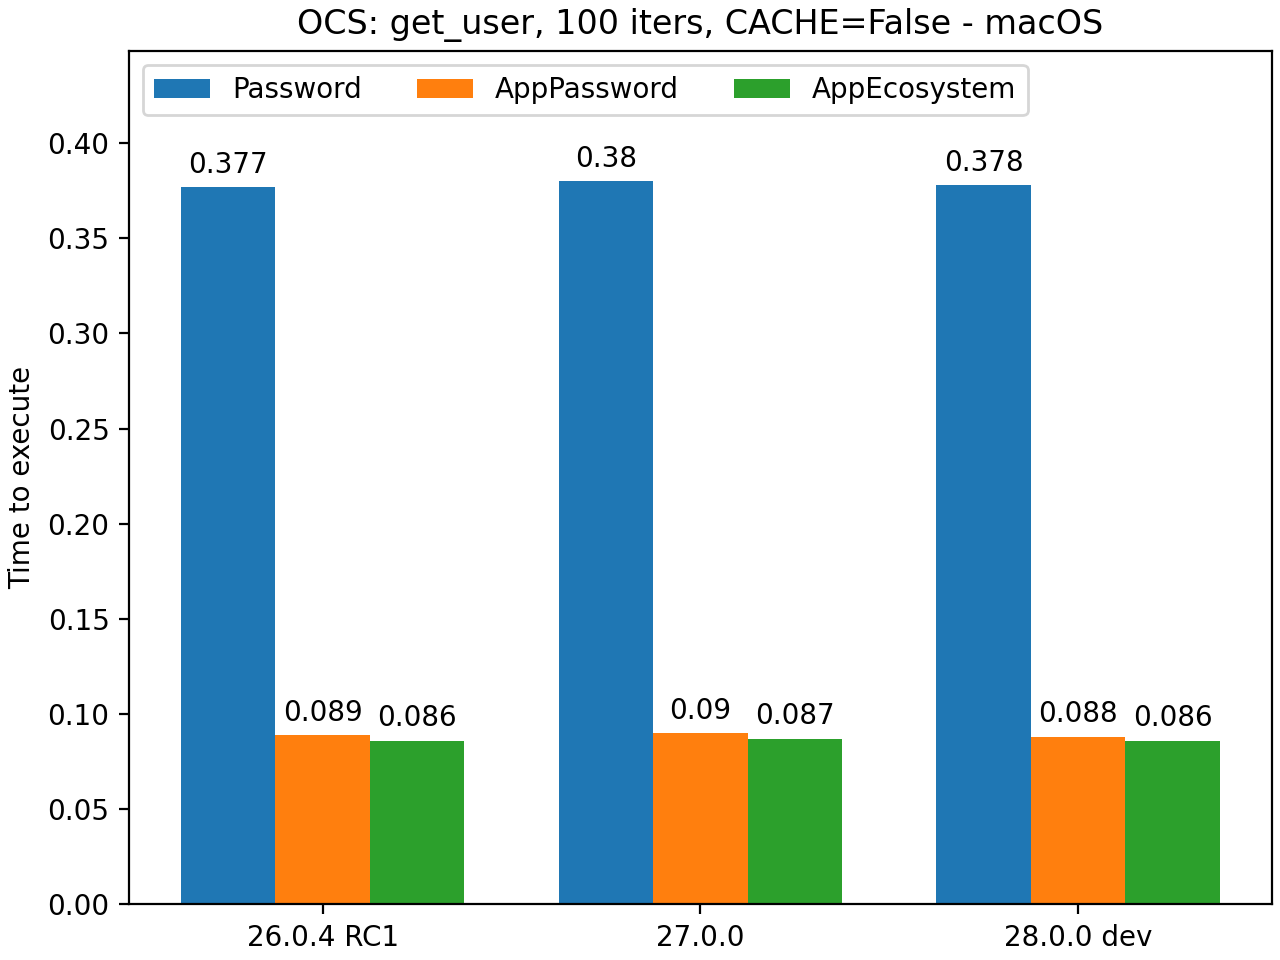
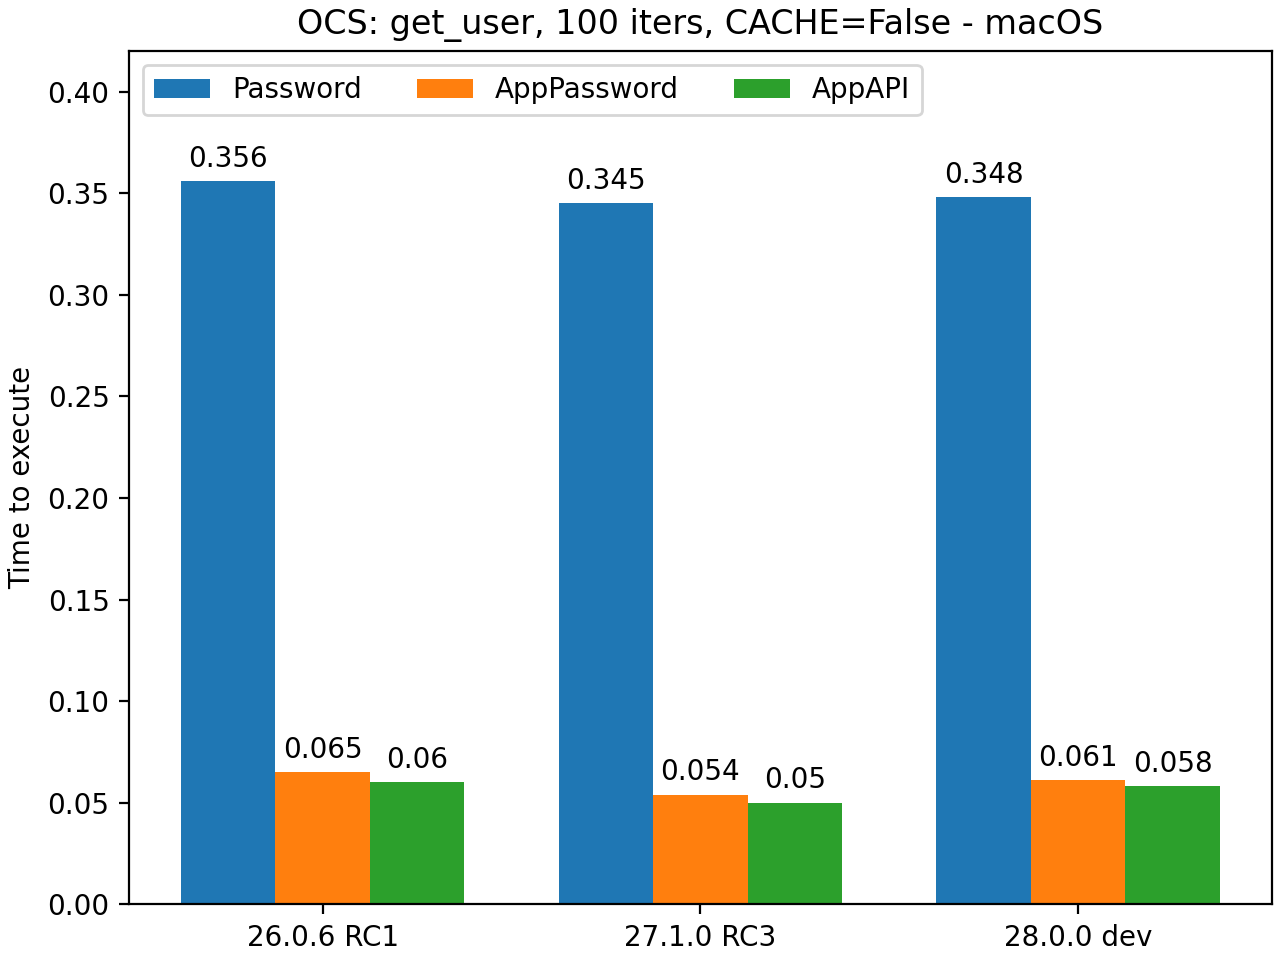
Finished transaction to `app_api` (#118)

diff --git a/tests/_app_security_checks.py b/tests/_app_security_checks.py
@@ -5,8 +5,9 @@ from sys import argv
 import requests
 
 
-def sign_request(req_headers: dict, user: str = ""):
-    req_headers["AUTHORIZATION-APP-API"] = b64encode(f"{user}:{environ['APP_SECRET']}".encode("UTF=8"))
+def sign_request(req_headers: dict, secret=None, user: str = ""):
+    app_secret = secret if secret is not None else environ["APP_SECRET"]
+    req_headers["AUTHORIZATION-APP-API"] = b64encode(f"{user}:{app_secret}".encode("UTF=8"))
 
 
 # params: app base url
@@ -17,7 +18,7 @@ if __name__ == "__main__":
     assert result.status_code == 401  # Missing headers
     headers.update(
         {
-            "AE-VERSION": environ.get("AE_VERSION", "1.0.0"),
+            "AA-VERSION": environ.get("AA_VERSION", "1.0.0"),
             "EX-APP-ID": environ.get("APP_ID", "nc_py_api"),
             "EX-APP-VERSION": environ.get("APP_VERSION", "1.0.0"),
         }
@@ -25,33 +26,33 @@ if __name__ == "__main__":
     sign_request(headers)
     result = requests.put(request_url, headers=headers)
     assert result.status_code == 200
-    # # Invalid AA-SIGNATURE
-    # request_url = argv[1] + "/sec_check?value=0"
-    # result = requests.put(request_url, headers=headers)
-    # assert result.status_code == 401
-    # sign_request(headers)
-    # result = requests.put(request_url, headers=headers)
-    # assert result.status_code == 200
-    # # Invalid EX-APP-ID
-    # old_app_name = headers["EX-APP-ID"]
-    # headers["EX-APP-ID"] = "unknown_app"
-    # sign_request(headers)
-    # result = requests.put(request_url, headers=headers)
-    # assert result.status_code == 401
-    # headers["EX-APP-ID"] = old_app_name
-    # sign_request(headers)
-    # result = requests.put(request_url, headers=headers)
-    # assert result.status_code == 200
-    # # Invalid EX-APP-VERSION
-    # sign_request(headers)
-    # result = requests.put(request_url, headers=headers)
-    # assert result.status_code == 200
-    # old_version = headers["EX-APP-VERSION"]
-    # headers["EX-APP-VERSION"] = "999.0.0"
-    # sign_request(headers)
-    # result = requests.put(request_url, headers=headers)
-    # assert result.status_code == 401
-    # headers["EX-APP-VERSION"] = old_version
-    # sign_request(headers)
-    # result = requests.put(request_url, headers=headers)
-    # assert result.status_code == 200
+    # Invalid AA-SIGNATURE
+    sign_request(headers, secret="xxx")
+    result = requests.put(request_url, headers=headers)
+    assert result.status_code == 401
+    sign_request(headers)
+    result = requests.put(request_url, headers=headers)
+    assert result.status_code == 200
+    # Invalid EX-APP-ID
+    old_app_name = headers["EX-APP-ID"]
+    headers["EX-APP-ID"] = "unknown_app"
+    sign_request(headers)
+    result = requests.put(request_url, headers=headers)
+    assert result.status_code == 401
+    headers["EX-APP-ID"] = old_app_name
+    sign_request(headers)
+    result = requests.put(request_url, headers=headers)
+    assert result.status_code == 200
+    # Invalid EX-APP-VERSION
+    sign_request(headers)
+    result = requests.put(request_url, headers=headers)
+    assert result.status_code == 200
+    old_version = headers["EX-APP-VERSION"]
+    headers["EX-APP-VERSION"] = "999.0.0"
+    sign_request(headers)
+    result = requests.put(request_url, headers=headers)
+    assert result.status_code == 401
+    headers["EX-APP-VERSION"] = old_version
+    sign_request(headers)
+    result = requests.put(request_url, headers=headers)
+    assert result.status_code == 200

diff --git a/benchmarks/aa_overhead_dav_download_stream.py b/benchmarks/aa_overhead_dav_download_stream.py
@@ -5,23 +5,25 @@ from time import perf_counter
 from typing import Any, Union
 
 import matplotlib.pyplot as plt
-from ae_overhead_common import measure_overhead, os_id
+from aa_overhead_common import measure_overhead, os_id
 
 from nc_py_api import Nextcloud, NextcloudApp
 
 ITERS = 10
-CACHE_SESS = True
+CACHE_SESS = False
 
 
-def measure_upload_100mb(nc_obj: Union[Nextcloud, NextcloudApp]) -> [Any, float]:
+def measure_download_100mb(nc_obj: Union[Nextcloud, NextcloudApp]) -> [Any, float]:
     __result = None
     medium_file_name = "100Mb.bin"
     medium_file = BytesIO()
     medium_file.write(randbytes(100 * 1024 * 1024))
+    medium_file.seek(0)
+    nc_obj.files.upload_stream(medium_file_name, medium_file)
     start_time = perf_counter()
     for _ in range(ITERS):
         medium_file.seek(0)
-        nc_obj.files.upload_stream(medium_file_name, medium_file)
+        nc_obj.files.download2stream(medium_file_name, medium_file)
         nc_obj._session.init_adapter(restart=not CACHE_SESS)  # noqa
     end_time = perf_counter()
     nc_obj.files.delete(medium_file_name, not_fail=True)
@@ -29,6 +31,6 @@ def measure_upload_100mb(nc_obj: Union[Nextcloud, NextcloudApp]) -> [Any, float]
 
 
 if __name__ == "__main__":
-    title = f"upload stream 100mb, {ITERS} iters, CACHE={CACHE_SESS} - {os_id()}"
-    measure_overhead(measure_upload_100mb, title)
-    plt.savefig(f"results/dav_upload_stream_100mb__cache{int(CACHE_SESS)}_iters{ITERS}__{getuser()}.png", dpi=200)
+    title = f"download stream 100mb, {ITERS} iters, CACHE={CACHE_SESS} - {os_id()}"
+    measure_overhead(measure_download_100mb, title)
+    plt.savefig(f"results/dav_download_stream_100mb__cache{int(CACHE_SESS)}_iters{ITERS}__{getuser()}.png", dpi=200)

diff --git a/benchmarks/aa_overhead_dav_upload_stream.py b/benchmarks/aa_overhead_dav_upload_stream.py
@@ -5,25 +5,23 @@ from time import perf_counter
 from typing import Any, Union
 
 import matplotlib.pyplot as plt
-from ae_overhead_common import measure_overhead, os_id
+from aa_overhead_common import measure_overhead, os_id
 
 from nc_py_api import Nextcloud, NextcloudApp
 
 ITERS = 10
-CACHE_SESS = True
+CACHE_SESS = False
 
 
-def measure_download_100mb(nc_obj: Union[Nextcloud, NextcloudApp]) -> [Any, float]:
+def measure_upload_100mb(nc_obj: Union[Nextcloud, NextcloudApp]) -> [Any, float]:
     __result = None
     medium_file_name = "100Mb.bin"
     medium_file = BytesIO()
     medium_file.write(randbytes(100 * 1024 * 1024))
-    medium_file.seek(0)
-    nc_obj.files.upload_stream(medium_file_name, medium_file)
     start_time = perf_counter()
     for _ in range(ITERS):
         medium_file.seek(0)
-        nc_obj.files.download2stream(medium_file_name, medium_file)
+        nc_obj.files.upload_stream(medium_file_name, medium_file)
         nc_obj._session.init_adapter(restart=not CACHE_SESS)  # noqa
     end_time = perf_counter()
     nc_obj.files.delete(medium_file_name, not_fail=True)
@@ -31,6 +29,6 @@ def measure_download_100mb(nc_obj: Union[Nextcloud, NextcloudApp]) -> [Any, floa
 
 
 if __name__ == "__main__":
-    title = f"download stream 100mb, {ITERS} iters, CACHE={CACHE_SESS} - {os_id()}"
-    measure_overhead(measure_download_100mb, title)
-    plt.savefig(f"results/dav_download_stream_100mb__cache{int(CACHE_SESS)}_iters{ITERS}__{getuser()}.png", dpi=200)
+    title = f"upload stream 100mb, {ITERS} iters, CACHE={CACHE_SESS} - {os_id()}"
+    measure_overhead(measure_upload_100mb, title)
+    plt.savefig(f"results/dav_upload_stream_100mb__cache{int(CACHE_SESS)}_iters{ITERS}__{getuser()}.png", dpi=200)

diff --git a/benchmarks/aa_overhead_dav_upload.py b/benchmarks/aa_overhead_dav_upload.py
@@ -4,22 +4,21 @@ from time import perf_counter
 from typing import Any, Union
 
 import matplotlib.pyplot as plt
-from ae_overhead_common import measure_overhead, os_id
+from aa_overhead_common import measure_overhead, os_id
 
 from nc_py_api import Nextcloud, NextcloudApp
 
 ITERS = 30
-CACHE_SESS = True
+CACHE_SESS = False
 
 
-def measure_download_1mb(nc_obj: Union[Nextcloud, NextcloudApp]) -> [Any, float]:
+def measure_upload_1mb(nc_obj: Union[Nextcloud, NextcloudApp]) -> [Any, float]:
     __result = None
     small_file_name = "1Mb.bin"
     small_file = randbytes(1024 * 1024)
-    nc_obj.files.upload(small_file_name, small_file)
     start_time = perf_counter()
     for _ in range(ITERS):
-        nc_obj.files.download(small_file_name)
+        nc_obj.files.upload(small_file_name, small_file)
         nc_obj._session.init_adapter(restart=not CACHE_SESS)  # noqa
     end_time = perf_counter()
     nc_obj.files.delete(small_file_name, not_fail=True)
@@ -27,6 +26,6 @@ def measure_download_1mb(nc_obj: Union[Nextcloud, NextcloudApp]) -> [Any, float]
 
 
 if __name__ == "__main__":
-    title = f"download 1mb, {ITERS} iters, CACHE={CACHE_SESS} - {os_id()}"
-    measure_overhead(measure_download_1mb, title)
-    plt.savefig(f"results/dav_download_1mb__cache{int(CACHE_SESS)}_iters{ITERS}__{getuser()}.png", dpi=200)
+    title = f"upload 1mb, {ITERS} iters, CACHE={CACHE_SESS} - {os_id()}"
+    measure_overhead(measure_upload_1mb, title)
+    plt.savefig(f"results/dav_upload_1mb__cache{int(CACHE_SESS)}_iters{ITERS}__{getuser()}.png", dpi=200)

diff --git a/benchmarks/aa_overhead_dav_download.py b/benchmarks/aa_overhead_dav_download.py
@@ -4,21 +4,22 @@ from time import perf_counter
 from typing import Any, Union
 
 import matplotlib.pyplot as plt
-from ae_overhead_common import measure_overhead, os_id
+from aa_overhead_common import measure_overhead, os_id
 
 from nc_py_api import Nextcloud, NextcloudApp
 
 ITERS = 30
-CACHE_SESS = True
+CACHE_SESS = False
 
 
-def measure_upload_1mb(nc_obj: Union[Nextcloud, NextcloudApp]) -> [Any, float]:
+def measure_download_1mb(nc_obj: Union[Nextcloud, NextcloudApp]) -> [Any, float]:
     __result = None
     small_file_name = "1Mb.bin"
     small_file = randbytes(1024 * 1024)
+    nc_obj.files.upload(small_file_name, small_file)
     start_time = perf_counter()
     for _ in range(ITERS):
-        nc_obj.files.upload(small_file_name, small_file)
+        nc_obj.files.download(small_file_name)
         nc_obj._session.init_adapter(restart=not CACHE_SESS)  # noqa
     end_time = perf_counter()
     nc_obj.files.delete(small_file_name, not_fail=True)
@@ -26,6 +27,6 @@ def measure_upload_1mb(nc_obj: Union[Nextcloud, NextcloudApp]) -> [Any, float]:
 
 
 if __name__ == "__main__":
-    title = f"upload 1mb, {ITERS} iters, CACHE={CACHE_SESS} - {os_id()}"
-    measure_overhead(measure_upload_1mb, title)
-    plt.savefig(f"results/dav_upload_1mb__cache{int(CACHE_SESS)}_iters{ITERS}__{getuser()}.png", dpi=200)
+    title = f"download 1mb, {ITERS} iters, CACHE={CACHE_SESS} - {os_id()}"
+    measure_overhead(measure_download_1mb, title)
+    plt.savefig(f"results/dav_download_1mb__cache{int(CACHE_SESS)}_iters{ITERS}__{getuser()}.png", dpi=200)

diff --git a/benchmarks/aa_overhead_common.py b/benchmarks/aa_overhead_common.py
@@ -11,7 +11,7 @@ def measure_overhead(measure, title: str):
     penguin_means = {
         "Password": [],
         "AppPassword": [],
-        "AppEcosystem": [],
+        "AppAPI": [],
     }
 
     for k, v in NC_CFGS.items():
@@ -34,7 +34,7 @@ def measure_overhead(measure, title: str):
 
         nc_ae = init_nc_app(k, v)
         result_nc_ae, time_nc_ae = measure(nc_ae)
-        penguin_means["AppEcosystem"].append(time_nc_ae)
+        penguin_means["AppAPI"].append(time_nc_ae)
 
         # Uncomment only for functions that return predictable values.
         # if result_nc is not None:

diff --git a/nc_py_api/_misc.py b/nc_py_api/_misc.py
@@ -80,5 +80,8 @@ def nc_iso_time_to_datetime(iso8601_time: str) -> datetime:
 def get_username_secret_from_headers(headers: dict) -> tuple[str, str]:
     """Returns tuple with ``username`` and ``app_secret`` from headers."""
     auth_aa = b64decode(headers.get("AUTHORIZATION-APP-API", "")).decode("UTF-8")
-    username, app_secret = auth_aa.split(":", maxsplit=1)
+    try:
+        username, app_secret = auth_aa.split(":", maxsplit=1)
+    except ValueError:
+        return "", ""
     return username, app_secret

diff --git a/benchmarks/aa_overhead_ocs.py b/benchmarks/aa_overhead_ocs.py
@@ -3,12 +3,12 @@ from time import perf_counter
 from typing import Any, Union
 
 import matplotlib.pyplot as plt
-from ae_overhead_common import measure_overhead, os_id
+from aa_overhead_common import measure_overhead, os_id
 
 from nc_py_api import Nextcloud, NextcloudApp
 
 ITERS = 100
-CACHE_SESS = True
+CACHE_SESS = False
 
 
 def measure_get_details(nc_obj: Union[Nextcloud, NextcloudApp]) -> [Any, float]:

diff --git a/docs/benchmarks/AppAPI.rst b/docs/benchmarks/AppAPI.rst
@@ -4,32 +4,11 @@ AppAPI Benchmarks
 In the current implementation, applications written and using the AppAPI
 so far in most cases will be authenticated at the beginning of each action.
 
-*A future enhancement that can be implemented is the addition of a session cache.
-This feature would eliminate the need for re-authorization for subsequent actions performed
-by the same user within a certain time frame.
-The implementation of this session cache would be seamless for developers and require no additional actions.*
-
 It is important to note that the AppAPI authentication type is currently the fastest among available options.
 Compared to traditional username/password authentication and app password authentication,
 both of which are considerably slower, the AppAPI provides a significant advantage in terms of speed.
 
-When considering data transfer speed, it is worth mentioning
-that the AppAPI's upload speed may be slightly lower, around 6-8 percent, for large data transfers.
-This decrease in speed is due to the authentication process, which involves hashing all data.
-However, for loading any data, there is no slowdown compared to standard methods.
-
-In cases of loading any data, there is no slowdown relative to standard methods.
-
-While the transfer speed can be affected by the network speed between the application and the cloud,
-this aspect is beyond the scope of the discussed issue.
-
-Conclusion
-----------
-
-In summary, the AppAPI authentication offers fast and secure access to user data.
-With the potential addition of a session cache in the future, the authentication process can become even more efficient
-and seamless for users. The slight decrease in upload speed for large data transfers
-is a trade-off for the enhanced security provided by the authentication process.
+In summary, the AppAPI authentication offers fast and robust access to user data.
 
 Overall, the AppAPI authentication proves to be a reliable and effective method for application authentication.
 
@@ -45,39 +24,29 @@ Tests are run with session cache enabled and disabled to see the difference in a
 | All benchmarks are run one after the other in the single thread.
 | Size of chunk for file stream operations = **4MB**
 
-nc-py-api version = **0.0.24**
+nc-py-api version = **0.2.0**
 
 'ocs/v1.php/cloud/USERID' endpoint
 ----------------------------------
 
 .. image:: ../../benchmarks/results/ocs_user_get_details__cache0_iters100__shurik.png
 
-.. image:: ../../benchmarks/results/ocs_user_get_details__cache1_iters100__shurik.png
-
 Downloading a 1 MB file
 -----------------------
 
 .. image:: ../../benchmarks/results/dav_download_1mb__cache0_iters30__shurik.png
-
-.. image:: ../../benchmarks/results/dav_download_1mb__cache1_iters30__shurik.png
 
 Uploading a 1 Mb file
 ---------------------
 
 .. image:: ../../benchmarks/results/dav_upload_1mb__cache0_iters30__shurik.png
 
-.. image:: ../../benchmarks/results/dav_upload_1mb__cache1_iters30__shurik.png
-
 Downloading of a 100 Mb file to the memory BytesIO python object
 ----------------------------------------------------------------
 
 .. image:: ../../benchmarks/results/dav_download_stream_100mb__cache0_iters10__shurik.png
 
-.. image:: ../../benchmarks/results/dav_download_stream_100mb__cache1_iters10__shurik.png
-
 Chunked uploading of a 100 Mb file from the BytesIO python object
 -----------------------------------------------------------------
 
 .. image:: ../../benchmarks/results/dav_upload_stream_100mb__cache0_iters10__shurik.png
-
-.. image:: ../../benchmarks/results/dav_upload_stream_100mb__cache1_iters10__shurik.png

diff --git a/docs/NextcloudApp.rst b/docs/NextcloudApp.rst
@@ -56,7 +56,7 @@ Here they are:
 * APP_PORT - Port on which application listen for the requests from the Nextcloud.
 * APP_SECRET - Secret for ``hmac`` signature generation.
 * APP_VERSION - Version of the application.
-* AE_VERSION - Version of the AppAPI.
+* AA_VERSION - Version of the AppAPI.
 * NEXTCLOUD_URL - URL at which the application can access the Nextcloud API.
 
 You can find values for these environment variables in the **Skeleton** or **ToGif** run configurations.
